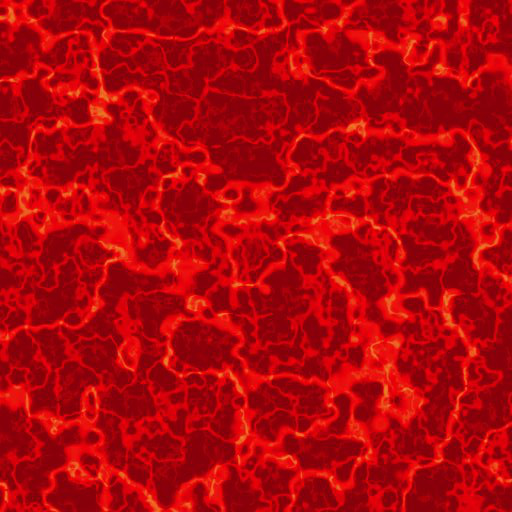
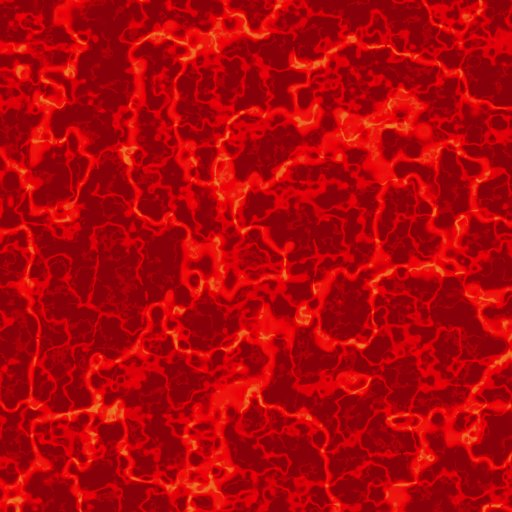
Nouvelle methode de calcul de la boiteenglobante
Les images sont automatiquement tourner dans le glLoadTexture. J'ai
surcharger la méthode pour qu'elle prenne en compte si on load une
texture d'objet (0) ou de skybox (de 1 a 6). Et J'ai un switch case qui
fais les rotations dependament de quel face de la skybox on utilise

diff --git a/Commun/Utilitaire/OpenGL/BoiteEnvironnement.cpp b/Commun/Utilitaire/OpenGL/BoiteEnvironnement.cpp
@@ -51,12 +51,12 @@ namespace utilitaire {
 		const std::string& fichierZpos, const std::string& fichierZneg
 		)
 	{
-		aidegl::glLoadTexture(fichierXpos, texturesEnvironnement_[0]);
-		aidegl::glLoadTexture(fichierXneg, texturesEnvironnement_[1]);
-		aidegl::glLoadTexture(fichierYpos, texturesEnvironnement_[2]);
-		aidegl::glLoadTexture(fichierYneg, texturesEnvironnement_[3]);
-		aidegl::glLoadTexture(fichierZpos, texturesEnvironnement_[4]);
-		aidegl::glLoadTexture(fichierZneg, texturesEnvironnement_[5]);
+		aidegl::glLoadTexture(fichierXpos, texturesEnvironnement_[0], true, 1);
+		aidegl::glLoadTexture(fichierXneg, texturesEnvironnement_[1], true, 2);
+		aidegl::glLoadTexture(fichierYpos, texturesEnvironnement_[2], true, 3);
+		aidegl::glLoadTexture(fichierYneg, texturesEnvironnement_[3], true, 4);
+		aidegl::glLoadTexture(fichierZpos, texturesEnvironnement_[4], true, 5);
+		aidegl::glLoadTexture(fichierZneg, texturesEnvironnement_[5], true, 6);
 
 		for (int i = 0; i < 6; ++i) {
 			glBindTexture(GL_TEXTURE_2D, texturesEnvironnement_[i]);
